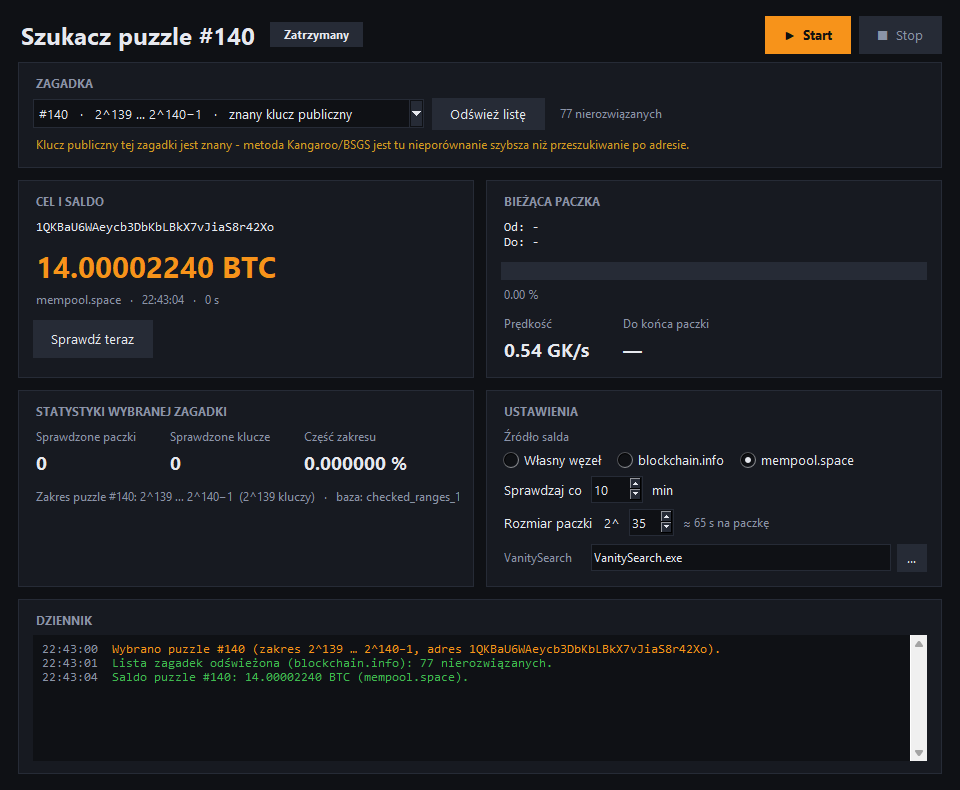
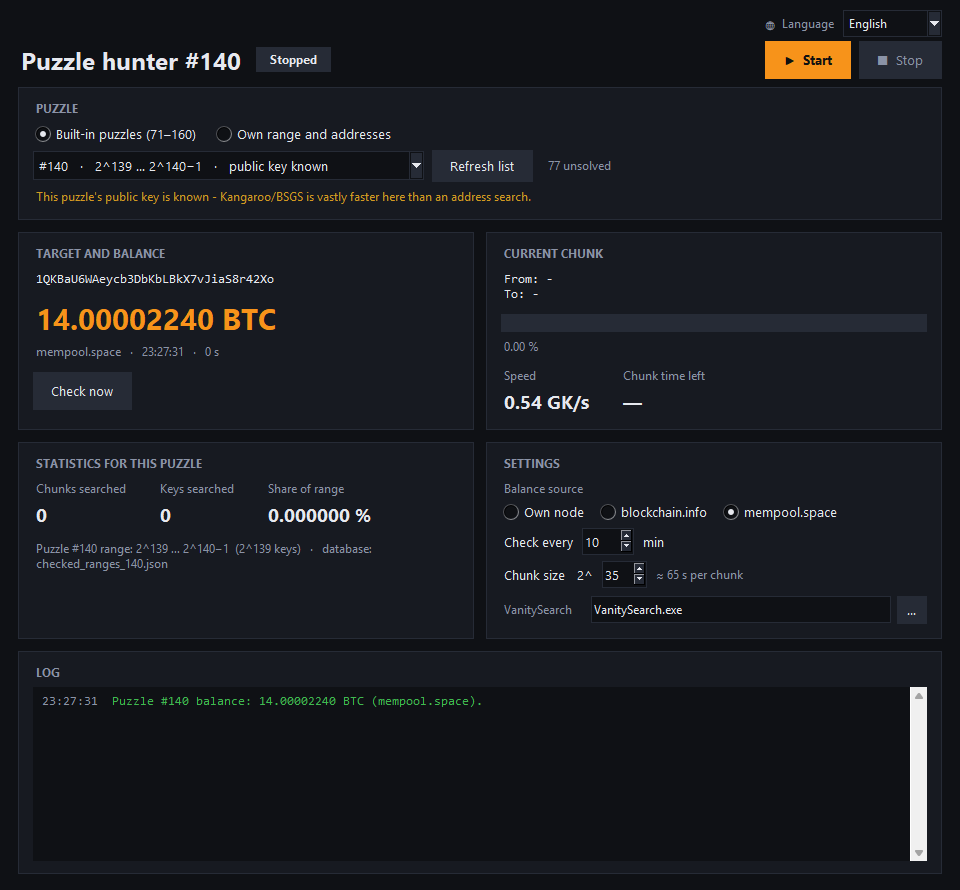
README: English screenshots, donation story on the front page

diff --git a/README.md b/README.md
@@ -1,11 +1,57 @@
-# VanitySearch-Blackwell
+# VanitySearch-Blackwell + Bitcoin Puzzle Hunter
 
-> **This fork adds [a GUI for the Bitcoin puzzle](gui/README.md)** (10 languages, every unsolved puzzle 71–160,
-> parallel prize check) and **prebuilt Windows binaries** for RTX 30/40/50 on the Releases page.
-> The search engine below is StarWWW's VanitySearch-Blackwell, unchanged.
-> Donations (BTC): `bc1q73ehm20v8y0zlfc5qh9mqzzftmczp3yg0f6med`
->
-> ![GUI](gui/screenshot_szukanie.png)
+## Bitcoin Puzzle Hunter: a GUI for VanitySearch
+
+**This fork adds [a Windows GUI for the Bitcoin puzzle](gui/README.md)** and
+**[prebuilt .exe files](https://github.com/enterzbigi-hue/VanitySearch-Blackwell/releases)** for RTX 30/40/50.
+Pick any unsolved puzzle 71–160, or your own range and addresses, press Start, and watch your GPU work.
+10 languages, parallel prize check, and it stops by itself when the prize is gone.
+
+![Puzzle Hunter GUI](gui/screenshot_search.png)
+
+### A few words from me
+
+Hi! I build this in my spare time on an ordinary home PC. I have no mining farm and no server room,
+just one graphics card and a loan I pay off every month. The Bitcoin puzzle is how I learn and have fun,
+and I share the tool I made for it for free. The code is open: use it, change it, and check that it does
+nothing behind your back.
+
+If the GUI is useful to you and you'd like to and can afford it, any small donation helps me put money
+toward better hardware and find more time to keep working on it. If not, that's fine too: a ⭐ on GitHub
+really keeps me going. 🙂
+
+Just one request: **please don't donate money you need.** The chance of finding a key is tiny.
+This is a hobby, not an investment.
+
+<img src="gui/donate_qr.png" alt="QR: bitcoin:bc1q73ehm20v8y0zlfc5qh9mqzzftmczp3yg0f6med" width="160">
+
+**BTC:** `bc1q73ehm20v8y0zlfc5qh9mqzzftmczp3yg0f6med`
+
+<details>
+<summary>🇵🇱 Kilka słów ode mnie (po polsku)</summary>
+
+Cześć! Ten program powstaje po godzinach, na zwykłym domowym komputerze. Nie mam farmy koparek ani serwerowni,
+tylko jedną kartę graficzną i kredyt, który co miesiąc trzeba spłacić. Zagadki Bitcoina to dla mnie nauka
+i frajda, a narzędziem, które sobie do nich zrobiłem, dzielę się za darmo. Kod jest otwarty: możesz go używać,
+zmieniać i sprawdzić, że nie robi nic za Twoimi plecami.
+
+Jeśli okno Ci się przydało, a masz ochotę i możliwość, każda drobna wpłata pomoże mi dołożyć do lepszego
+sprzętu i znaleźć więcej czasu na dalszy rozwój. Jeśli nie, to też w porządku: zostaw ⭐ na GitHubie,
+to naprawdę motywuje. 🙂
+
+Proszę tylko o jedno: **nie wpłacaj pieniędzy, których potrzebujesz.** Szansa na znalezienie klucza jest
+bardzo mała. To hobby, a nie inwestycja.
+</details>
+
+| Own range and addresses | Puzzle with a known public key |
+|---|---|
+| ![Own range](gui/screenshot_custom.png) | ![Puzzle #140](gui/screenshot_puzzle140.png) |
+
+**[→ Full GUI description, install steps and honest odds](gui/README.md)**
+
+---
+
+## VanitySearch-Blackwell (the search engine, by StarWWW)
 
 Based on [FixedPaul/VanitySearch-Bitcrack](https://github.com/FixedPaul/VanitySearch-Bitcrack),
 which is in turn based on [Jean-Luc Pons' VanitySearch](https://github.com/JeanLucPons/VanitySearch). It is

diff --git a/gui/README.md b/gui/README.md
@@ -2,7 +2,7 @@
 
 **[Polski](#polski)** · **[English](#english)**
 
-![Szukanie puzzle #71](screenshot_szukanie.png)
+![Puzzle Hunter](screenshot_search.png)
 
 ---
 
@@ -56,9 +56,9 @@ bc1q73ehm20v8y0zlfc5qh9mqzzftmczp3yg0f6med
 - **Na żywo:** prędkość, postęp paczki, czas do końca, liczba sprawdzonych kluczy i jaka to część zakresu.
 - **Bezpieczeństwo:** znaleziony klucz trafia wyłącznie do `znalezione.txt`, nigdy do dziennika w oknie.
 
-| English | 中文 |
+| Własny zakres i adresy | 中文 |
 |---|---|
-| ![English](screenshot_english.png) | ![中文](screenshot_chinese.png) |
+| ![Own range](screenshot_custom.png) | ![中文](screenshot_chinese.png) |
 
 Przy zagadkach o numerach podzielnych przez 5 klucz publiczny jest znany. Okno przypomina wtedy,
 że metody Kangaroo/BSGS są tam nieporównanie szybsze niż szukanie po adresie:
